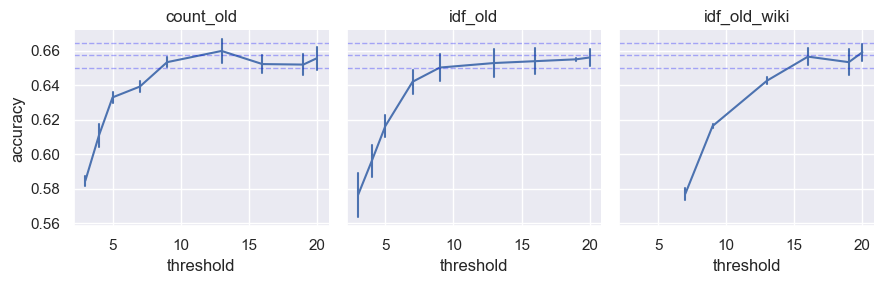
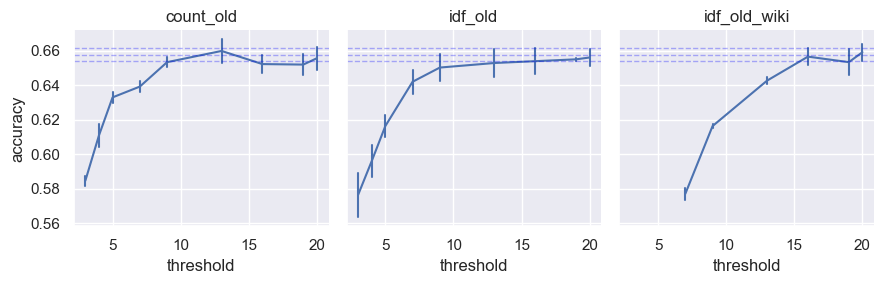
Filter out further relations

diff --git a/analyze_results.py b/analyze_results.py
@@ -45,16 +45,18 @@ def plot_edge_numbers():
     sns.lineplot(y="count", x="threshold", data=edge_counts, hue="dataset", markers=None)
     ax.set_yscale('log')
     fig.tight_layout()
-    fig.savefig(f"{io.get_basic_plots_path()}/edge_thresholds.png")
+    fig.savefig(f"{io.get_root_path()}/plots/edge_thresholds.png")
 
 
 # RESULTS
 def plot_metric(dataset, metric="accuracy"):
     results = file.get_eval_logs(dataset)
-    base = results[results["wiki_enabled"] == False][metric]
+    base = results[(results["wiki_enabled"] == False) & (results["window_size"] == 15)][metric]
     base_mean = base.mean()
     base_min = base.min()
     base_max = base.max()
+    base_std = base.std()
+    print(base_std)
 
     results = results[results["wiki_enabled"] == True]
     if "r8" in dataset or "r52" in dataset:
@@ -69,8 +71,10 @@ def plot_metric(dataset, metric="accuracy"):
     for x in range(0, len(g.axes)):
         ax = g.axes[x]
         ax.axhline(y=base_mean, color=color, linewidth=1, alpha=.3, ls="--")
-        ax.axhline(y=base_max, color=color, linewidth=1, alpha=.3, ls="--")
-        ax.axhline(y=base_min, color=color, linewidth=1, alpha=.3, ls="--")
+        # ax.axhline(y=base_max, color=color, linewidth=1, alpha=.3, ls="--")
+        # ax.axhline(y=base_min, color=color, linewidth=1, alpha=.3, ls="--")
+        ax.axhline(y=base_mean+base_std, color=color, linewidth=1, alpha=.3, ls="--")
+        ax.axhline(y=base_mean-base_std, color=color, linewidth=1, alpha=.3, ls="--")
         # ax.text(y=base_mean * 1.001, x=2*0.98, s="mean", size=7, alpha=.4, color=color)
         # ax.text(y=base_min * 1.001, x=2*0.98, s="min", size=7, alpha=.4, color=color)
         # ax.text(y=base_max * 1.001, x=2*0.98, s="max", size=7, alpha=.4, color=color)
@@ -82,10 +86,10 @@ def plot_all(metric="accuracy", density=False):
     for dataset in available_datasets:
         plot_metric(dataset, metric)
         if density:
-            plot_edge_counts(dataset)
+            plot_edge_density(dataset)
 
 
-def plot_edge_counts(dataset):
+def plot_edge_density(dataset):
     metrics = file.get_document_triples_metrics(dataset)
 
     f, axes = plt.subplots(1, 3)
@@ -96,7 +100,27 @@ def plot_edge_counts(dataset):
     f.savefig(f"{io.get_basic_plots_path(dataset)}/{dataset}_density.png")
 
 
+def test():
+    eval = file.get_eval_logs("r8")
+    print(eval)
+
+    r8_thresholds = [7, 9, 13, 18, 24]
+    r52_thresholds = [6, 7, 8, 9]
+
+    types = ["count", "idf", "idf_wiki", "count_old", "idf_old", "idf_old_wiki"]
+    test = []
+    for t in r8_thresholds:
+        for r in types:
+            eval_filter = eval[(eval["wiki_enabled"] == True) & (eval["window_size"] == 15) & (eval["threshold"] == t) & (eval["raw_count"] == r)]["accuracy"]
+            test.append([t, r, eval_filter.max(), eval_filter.min(), eval_filter.mean(), eval_filter.std()])
+
+    eval_filter = eval[(eval["wiki_enabled"] == False) & (eval["window_size"] == 15)]["accuracy"]
+    test.append([0, "Base", eval_filter.max(), eval_filter.min(), eval_filter.mean(), eval_filter.std()])
+    result = pd.DataFrame(test)
+    result.to_csv("r8_result.csv", index=False)
+    print(result)
+
+
 if __name__ == '__main__':
-    # plot_number_of_edges()
-    # plot_all(density=True)
-    plot_edge_numbers()
+    plot_all(density=True)
+    # plot_edge_numbers()

diff --git a/create_kg_edges.py b/create_kg_edges.py
@@ -111,11 +111,11 @@ def generate_doc2relations():
 
 # Adjacency matrices
 def create_doc2doc_edges():
-    if exists(io.get_document_triples_path()):
-        print("Document triples pickle file adready exists, will not be created again")
-        generate_idf_scores()
-        apply_idf()
-        return
+    # if exists(io.get_document_triples_path()):
+    #     print("Document triples pickle file adready exists, will not be created again")
+    #     generate_idf_scores()
+    #     apply_idf()
+    #     return
     generate_doc2relations()
     generate_idf_scores()
     doc_nouns_norm = file.get_normalized_nouns()  # Array with all nouns per doc // must be split

diff --git a/analyze_properties.py b/analyze_properties.py
@@ -72,7 +72,7 @@ def get_all_properties(threshold=1000):
     relations_df.drop(too_small, inplace=True)
 
     # Filter out relations from manual removement
-    wrong_relations = ["P461", "P460", "P1889", "P180", "P2670", "P1269", "P1382", "P21", "P462", "P509"]
+    wrong_relations = ["P31", "P461", "P527", "P460", "P1889", "P180", "P2670", "P1269", "P1382", "P21", "P462", "P509"]
     irrelevant = relations_df[relations_df["ID"].isin(wrong_relations)].index
     relations_df.drop(irrelevant, inplace=True)
 
